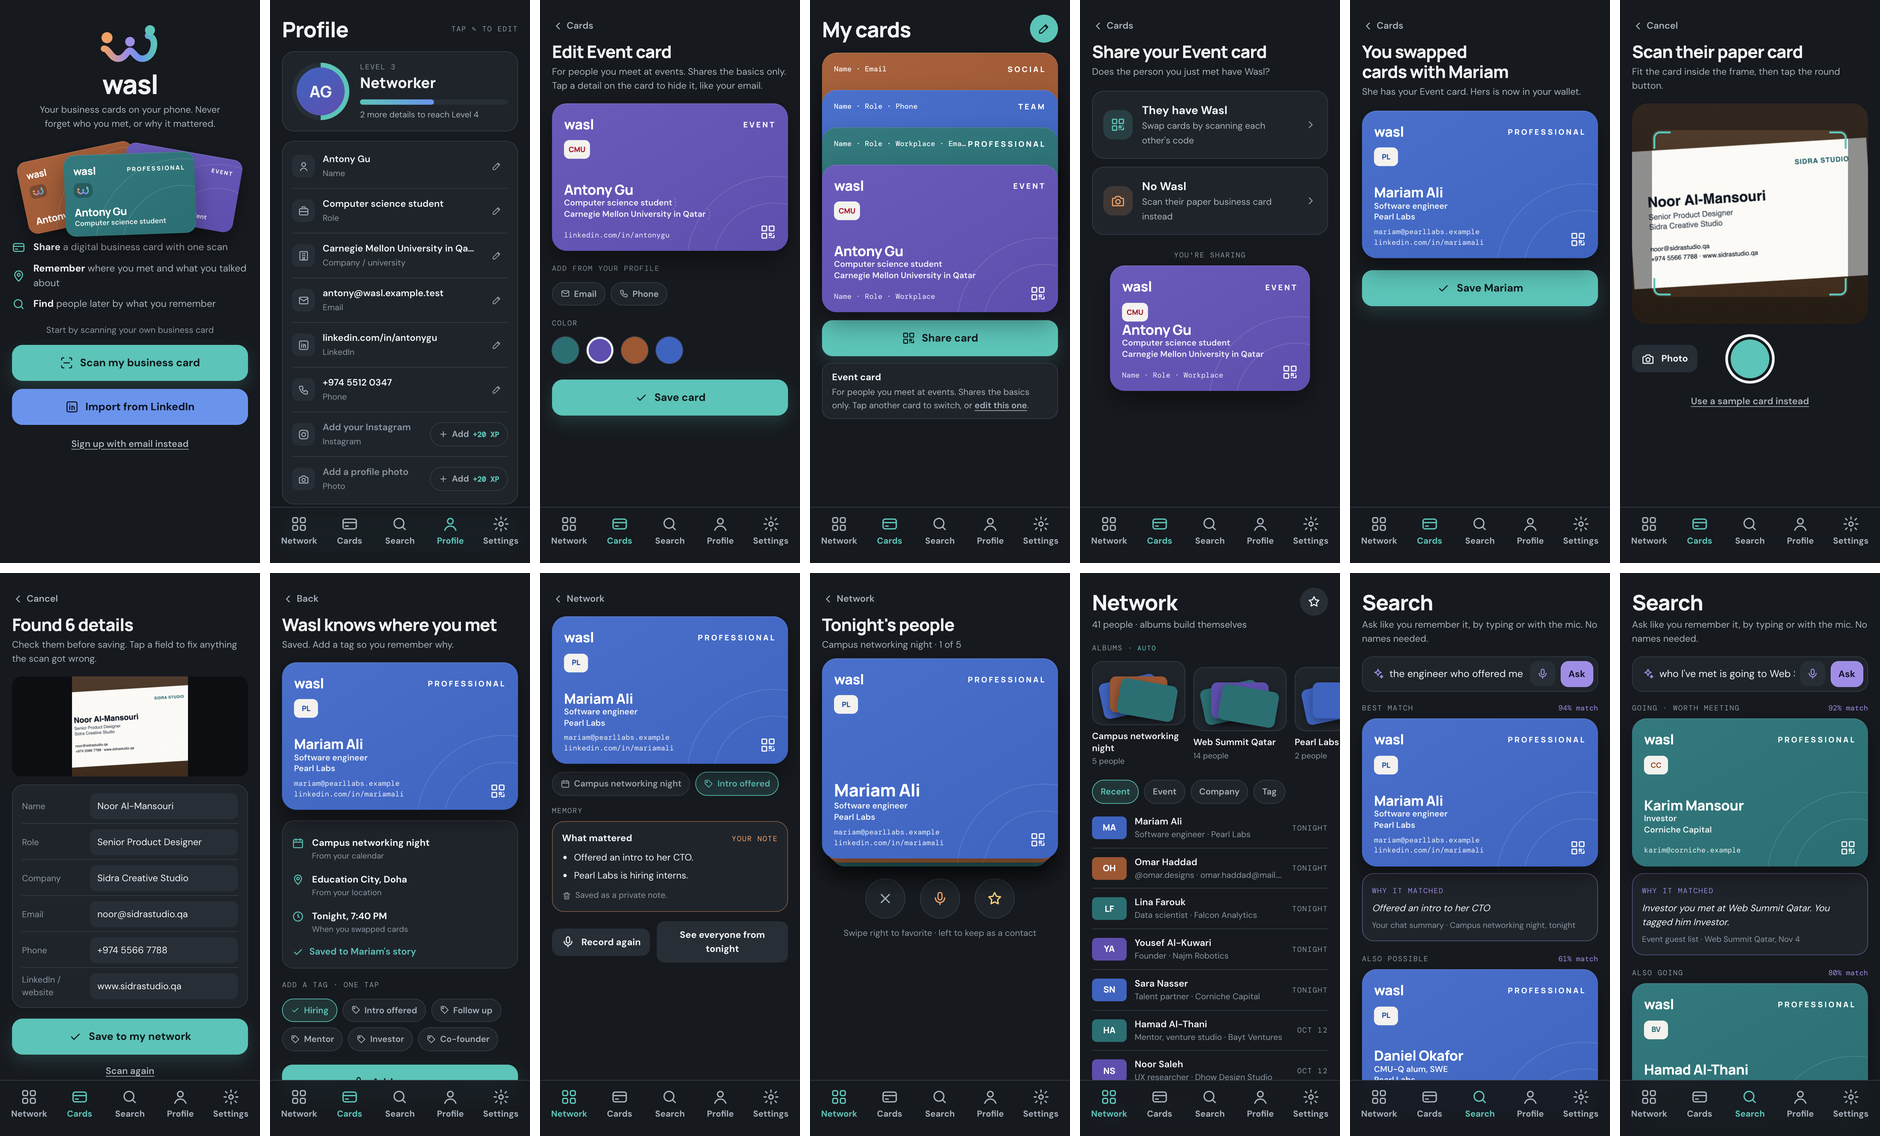
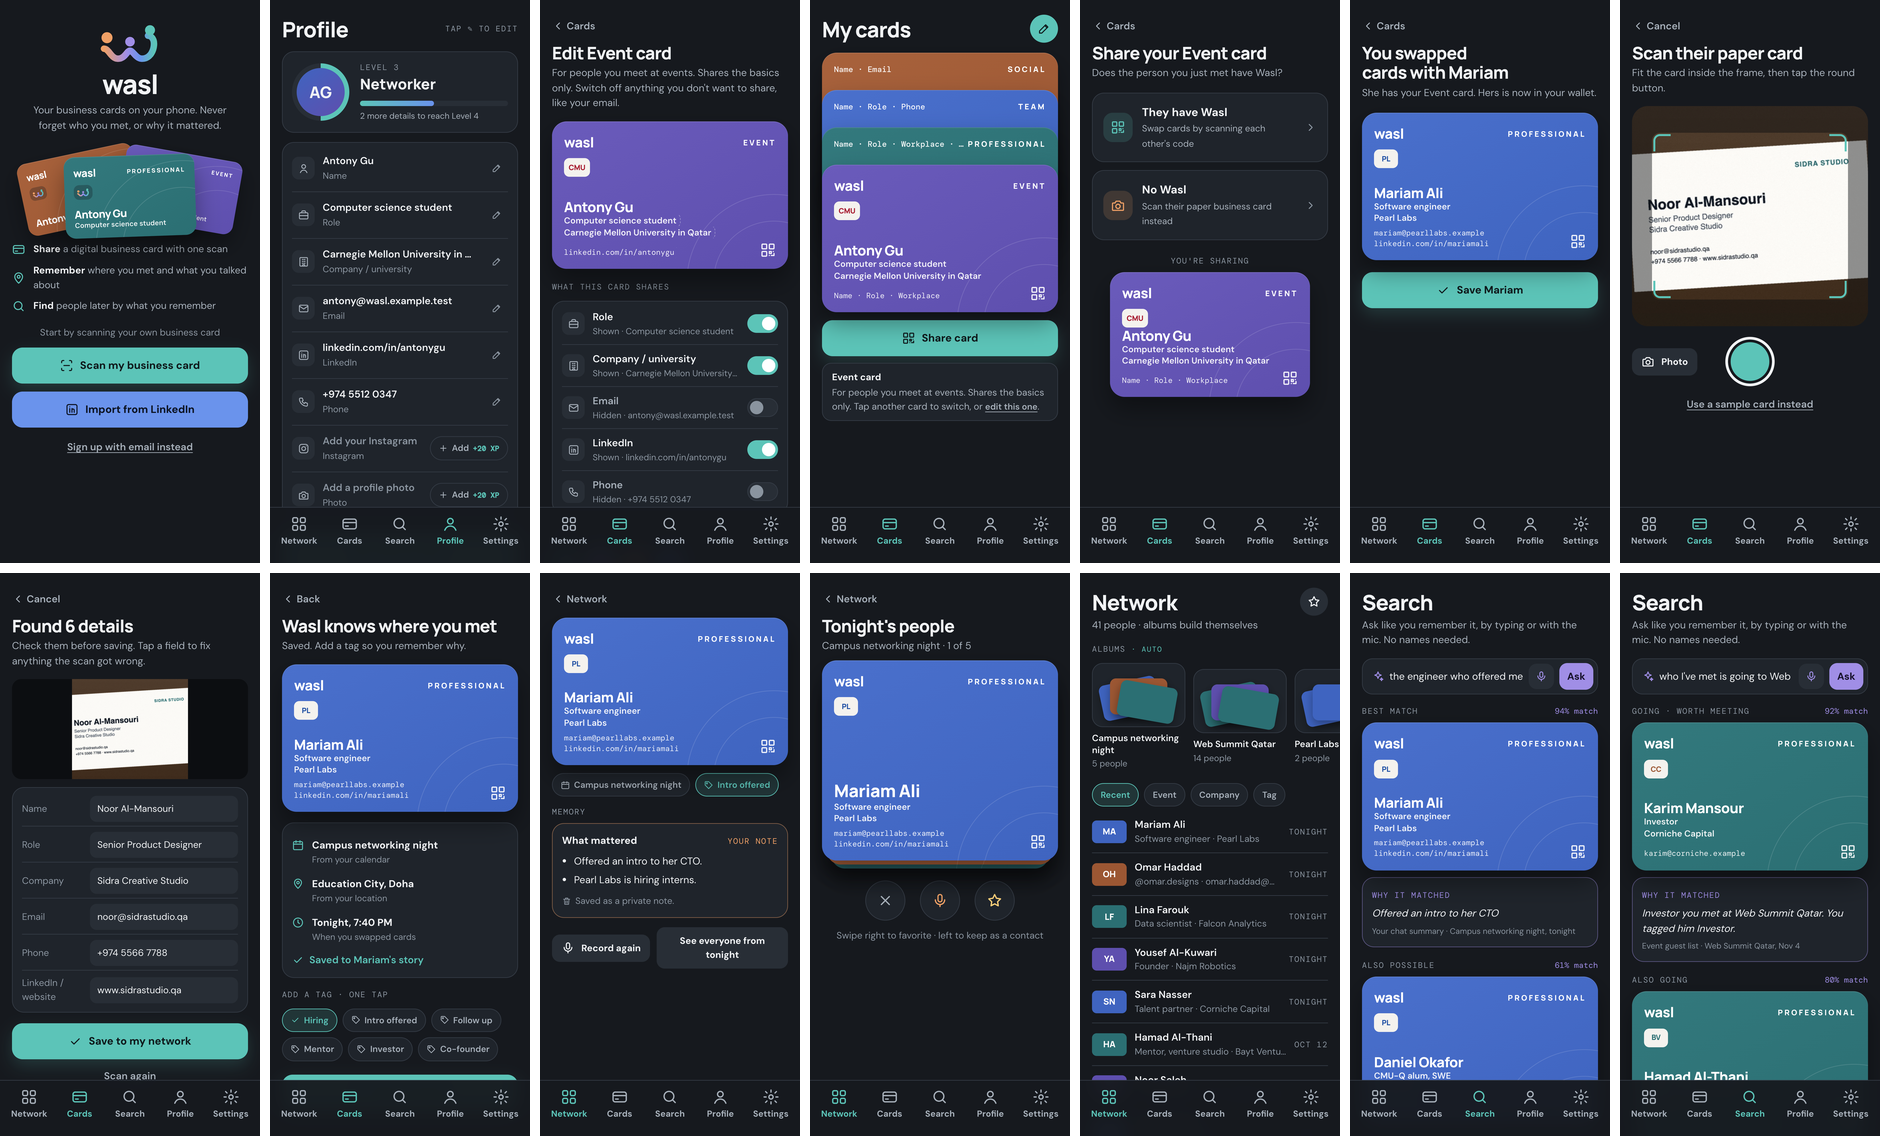
Labeled show/hide switches when editing a card, larger text, scan button above the swap, clearer swap labels

diff --git a/public/mockup/index.html b/public/mockup/index.html
@@ -43,7 +43,7 @@ body {
   background: var(--page);
   color: var(--text);
   font-family: var(--body);
-  font-size: 14px;
+  font-size: 15px;
   line-height: 1.5;
   -webkit-font-smoothing: antialiased;
 }
@@ -148,7 +148,7 @@ h1, h2, h3 { font-family: var(--display); text-wrap: balance; }
   border-radius: 10px;
   padding: 7px 12px;
   font-weight: 600;
-  font-size: 13px;
+  font-size: 14px;
   color: var(--text-2);
 }
 .ghost:hover { color: var(--text); border-color: var(--muted); }
@@ -251,7 +251,7 @@ h1, h2, h3 { font-family: var(--display); text-wrap: balance; }
 .back svg { width: 18px; height: 18px; }
 .title { font-size: 32px; font-weight: 800; letter-spacing: -0.8px; line-height: 1.15; margin: 6px 0 4px; }
 .sub { color: var(--text-2); }
-.label { font-family: var(--mono); font-size: 11px; letter-spacing: 0.1em; text-transform: uppercase; color: var(--muted); }
+.label { font-family: var(--mono); font-size: 12px; letter-spacing: 0.1em; text-transform: uppercase; color: var(--muted); }
 .stack { display: flex; flex-direction: column; gap: 12px; }
 .row { display: flex; gap: 8px; align-items: center; }
 .btn {
@@ -272,7 +272,7 @@ h1, h2, h3 { font-family: var(--display); text-wrap: balance; }
 .btn.violet { background: var(--violet); color: #17122b; box-shadow: none; }
 .btn.small { width: auto; padding: 10px 14px; font-size: 14px; border-radius: 12px; }
 .link { border: 0; background: transparent; color: var(--text-2); font-weight: 600; text-decoration: underline; text-underline-offset: 3px; padding: 6px; }
-.hint { text-align: center; color: var(--muted); font-size: 13px; }
+.hint { text-align: center; color: var(--muted); font-size: 14px; }
 .panel {
   background: var(--surface);
   border: 1px solid var(--line);
@@ -335,10 +335,10 @@ h1, h2, h3 { font-family: var(--display); text-wrap: balance; }
 /* company logo, read from the business card: shown when the card shares a company */
 .card .c-tile.logo { align-self: flex-start; background: #f4f2ee; font-family: var(--display); font-weight: 800; font-size: 11px; letter-spacing: -0.2px; width: auto; min-width: 36px; padding: 0 7px; }
 .card .c-name { font-family: var(--display); font-weight: 800; font-size: 21px; letter-spacing: -0.4px; margin-top: auto; line-height: 1.15; overflow: hidden; text-overflow: ellipsis; white-space: nowrap; }
-.card .c-line { font-size: 12.5px; font-weight: 600; opacity: 0.92; line-height: 1.35; overflow: hidden; text-overflow: ellipsis; white-space: nowrap; }
+.card .c-line { font-size: 13px; font-weight: 600; opacity: 0.92; line-height: 1.35; overflow: hidden; text-overflow: ellipsis; white-space: nowrap; }
 .card .c-foot { display: flex; justify-content: space-between; align-items: flex-end; margin-top: 6px; gap: 8px; }
 .card .c-contacts { display: flex; flex-direction: column; min-width: 0; }
-.card .c-mono { font-family: var(--mono); font-size: 11px; line-height: 1.4; opacity: 0.9; overflow: hidden; text-overflow: ellipsis; white-space: nowrap; }
+.card .c-mono { font-family: var(--mono); font-size: 11.5px; line-height: 1.4; opacity: 0.9; overflow: hidden; text-overflow: ellipsis; white-space: nowrap; }
 /* small cards fanned out on the welcome screen: fixed size so long text can never stretch them */
 .card.mini { width: 196px; height: 122px; aspect-ratio: auto; padding: 12px 14px; border-radius: 16px; }
 .card.mini .c-word { font-size: 16px; }
@@ -359,10 +359,10 @@ h1, h2, h3 { font-family: var(--display); text-wrap: balance; }
 .wallet .card { position: absolute; left: 0; right: 0; width: 100%; transition: transform 200ms; }
 .wallet .card:last-child { position: relative; top: 0 !important; }
 .wallet .card.behind .c-tile { visibility: hidden; }
-.card .c-peek { font-family: var(--mono); font-size: 11px; font-weight: 500; opacity: 0.92; min-width: 0; overflow: hidden; text-overflow: ellipsis; white-space: nowrap; }
+.card .c-peek { font-family: var(--mono); font-size: 12px; font-weight: 500; opacity: 0.92; min-width: 0; overflow: hidden; text-overflow: ellipsis; white-space: nowrap; }
 .card-about { display: flex; flex-direction: column; gap: 2px; padding: 10px 14px; border-radius: 14px; background: var(--surface); border: 1px solid var(--line); }
 .card-about b { font-size: 14px; }
-.card-about span { color: var(--text-2); font-size: 13px; }
+.card-about span { color: var(--text-2); font-size: 14px; }
 .wallet .card.behind:hover { transform: translateY(-4px); }
 .wallet .card.front { animation: lift 320ms ease-out; }
 @keyframes lift { from { transform: translateY(-26px); } to { transform: none; } }
@@ -428,7 +428,7 @@ h1, h2, h3 { font-family: var(--display); text-wrap: balance; }
 .fields { display: grid; gap: 2px; padding-block: 6px; }
 .fld { display: grid; grid-template-columns: 92px 1fr; align-items: center; gap: 10px; padding: 6px 0; border-bottom: 1px solid var(--line); }
 .fld:last-child { border-bottom: 0; }
-.fld span { color: var(--muted); font-size: 13px; }
+.fld span { color: var(--muted); font-size: 14px; }
 .fld input { min-width: 0; background: var(--raised); border: 1px solid transparent; border-radius: 10px; color: var(--text); font: inherit; font-size: 14px; padding: 8px 10px; }
 .fld input:focus { outline: none; border-color: var(--teal); }
 .fld input::placeholder { color: var(--muted); }
@@ -460,7 +460,7 @@ h1, h2, h3 { font-family: var(--display); text-wrap: balance; }
 .detail .ic svg { width: 17px; height: 17px; }
 .detail .dv { min-width: 0; flex: 1; }
 .detail .dv b { display: block; font-weight: 600; overflow: hidden; text-overflow: ellipsis; white-space: nowrap; }
-.detail .dv span { color: var(--muted); font-size: 12.5px; }
+.detail .dv span { color: var(--muted); font-size: 13.5px; }
 .detail.missing .dv b { color: var(--muted); }
 .edit-btn { border: 0; background: transparent; color: var(--muted); width: 34px; height: 34px; border-radius: 10px; display: grid; place-items: center; flex: none; }
 .edit-btn:hover { color: var(--text); background: var(--raised); }
@@ -469,6 +469,19 @@ h1, h2, h3 { font-family: var(--display); text-wrap: balance; }
 .detail.editing .dv span { color: var(--muted); font-size: 12.5px; }
 .detail.editing input { min-width: 0; width: 100%; background: var(--raised); border: 1px solid var(--teal); border-radius: 10px; color: var(--text); font: inherit; padding: 8px 10px; outline: none; }
 
+.toggles { padding-block: 2px; }
+.tg { display: flex; align-items: center; gap: 12px; width: 100%; border: 0; border-bottom: 1px solid var(--line); background: transparent; color: var(--text); text-align: left; padding: 10px 0; }
+.tg:last-child { border-bottom: 0; }
+.tg .ic { width: 34px; height: 34px; border-radius: 10px; background: var(--raised); display: grid; place-items: center; flex: none; color: var(--text-2); }
+.tg .ic svg { width: 17px; height: 17px; }
+.tg .dv { min-width: 0; flex: 1; }
+.tg .dv b { display: block; font-size: 15px; font-weight: 600; }
+.tg .dv span { display: block; color: var(--muted); font-size: 13px; overflow: hidden; text-overflow: ellipsis; white-space: nowrap; }
+.tg[aria-pressed="false"] .dv b { color: var(--text-2); }
+.sw { width: 46px; height: 28px; border-radius: 14px; background: var(--raised); box-shadow: inset 0 0 0 1px var(--line); position: relative; flex: none; transition: background 150ms; }
+.sw::after { content: ""; position: absolute; top: 4px; left: 4px; width: 20px; height: 20px; border-radius: 50%; background: var(--muted); transition: transform 150ms, background 150ms; }
+.tg[aria-pressed="true"] .sw { background: var(--teal); box-shadow: none; }
+.tg[aria-pressed="true"] .sw::after { transform: translateX(18px); background: #fff; }
 .swatches { display: flex; gap: 12px; }
 .swatch { width: 40px; height: 40px; border-radius: 50%; border: 3px solid transparent; box-shadow: 0 0 0 1px var(--line); }
 .swatch[aria-pressed="true"] { border-color: var(--text); }
@@ -478,11 +491,11 @@ h1, h2, h3 { font-family: var(--display); text-wrap: balance; }
 .swatch.team { background: var(--card-team); }
 
 /* the two cards sit in the flow, so the labels can never land on a card at any screen size */
-.exchange { position: relative; display: flex; flex-direction: column; gap: 14px; margin-top: 10px; }
+.exchange { position: relative; display: flex; flex-direction: column; gap: 34px; margin-top: 10px; }
 .exchange .slot { position: relative; width: 100%; max-width: 300px; margin-inline: auto; transition: transform 700ms cubic-bezier(.6, -0.2, .3, 1.3), opacity 300ms; }
-.exchange .slot .who { font-family: var(--mono); font-size: 11px; letter-spacing: 0.08em; color: var(--muted); text-transform: uppercase; margin-bottom: 8px; }
-.exchange.swapping .theirs { transform: translateY(calc(100% + 14px)) rotate(-3deg); }
-.exchange.swapping .yours { transform: translateY(calc(-100% - 14px)) rotate(3deg); }
+.exchange .slot .who { font-family: var(--mono); font-size: 12px; letter-spacing: 0.08em; color: var(--muted); text-transform: uppercase; margin-bottom: 8px; }
+.exchange.swapping .theirs { transform: translateY(calc(100% + 34px)) rotate(-3deg); }
+.exchange.swapping .yours { transform: translateY(calc(-100% - 34px)) rotate(3deg); }
 .choice { display: flex; align-items: center; gap: 14px; width: 100%; text-align: left; border: 1px solid var(--line); background: var(--surface); color: var(--text); border-radius: 18px; padding: 16px; }
 .choice .ic { width: 44px; height: 44px; border-radius: 14px; display: grid; place-items: center; flex: none; background: rgba(92, 196, 184, 0.16); color: var(--teal); }
 .choice .ic svg { width: 22px; height: 22px; }
@@ -492,15 +505,15 @@ h1, h2, h3 { font-family: var(--display); text-wrap: balance; }
 .choice > svg { width: 18px; height: 18px; color: var(--muted); margin-left: auto; flex: none; }
 .sharing { margin-top: 22px; }
 .sharing .card { max-width: 300px; margin: 8px auto 0; }
-.exchange .pulse { position: absolute; left: 50%; top: 50%; width: 64px; height: 64px; margin: -32px; border-radius: 50%; display: grid; place-items: center; background: var(--raised); color: var(--teal); z-index: 2; }
-.exchange .pulse svg { width: 28px; height: 28px; }
+.exchange .pulse { position: absolute; left: 50%; top: 50%; width: 52px; height: 52px; margin: -26px; border-radius: 50%; display: grid; place-items: center; background: var(--raised); color: var(--teal); z-index: 2; }
+.exchange .pulse svg { width: 24px; height: 24px; }
 .exchange.swapping .pulse { animation: buzz 120ms linear 6; }
 @keyframes buzz { 0%, 100% { transform: translateX(0); } 25% { transform: translateX(-3px); } 75% { transform: translateX(3px); } }
 .qr { width: 100%; height: 100%; }
 
 .ctx .item { display: flex; gap: 12px; align-items: flex-start; padding: 8px 0; }
 .ctx .item svg { width: 18px; height: 18px; color: var(--teal); flex: none; margin-top: 2px; }
-.ctx .src { display: block; color: var(--muted); font-size: 12px; }
+.ctx .src { display: block; color: var(--muted); font-size: 13px; }
 .confirmed { display: flex; align-items: center; gap: 8px; color: var(--teal); font-weight: 600; }
 .confirmed svg { width: 18px; height: 18px; }
 
@@ -523,13 +536,13 @@ h1, h2, h3 { font-family: var(--display); text-wrap: balance; }
 .summary { border-color: rgba(239, 160, 102, 0.45); }
 .summary ul { margin: 8px 0 0; padding-left: 18px; display: flex; flex-direction: column; gap: 6px; }
 .mic-wrap .live { width: 100%; max-height: 120px; overflow-y: auto; margin: 2px 0 0; padding: 10px 12px; border-radius: 12px; background: var(--raised); color: var(--text-2); font-size: 13.5px; line-height: 1.45; text-align: left; }
-.transcript { margin-top: 10px; font-size: 13px; color: var(--text-2); }
+.transcript { margin-top: 10px; font-size: 14px; color: var(--text-2); }
 .transcript summary { cursor: pointer; color: var(--muted); font-weight: 600; }
 .transcript p { margin: 6px 0 0; line-height: 1.5; }
 .search .voice { width: 38px; height: 38px; border-radius: 12px; border: 0; background: var(--raised); color: var(--violet); display: grid; place-items: center; flex: none; padding: 0; }
 .search .voice svg { width: 18px; height: 18px; }
 .search .voice.on { background: var(--danger); color: #2a0f0f; animation: ring 1s ease-out infinite; }
-.summary .kept { margin-top: 10px; color: var(--muted); font-size: 12.5px; display: flex; gap: 6px; align-items: center; }
+.summary .kept { margin-top: 10px; color: var(--muted); font-size: 13.5px; display: flex; gap: 6px; align-items: center; }
 .summary .kept svg { width: 14px; height: 14px; }
 .shimmer { height: 12px; border-radius: 6px; background: linear-gradient(90deg, var(--raised), #3a424d, var(--raised)); background-size: 200% 100%; animation: sh 1s linear infinite; }
 @keyframes sh { to { background-position: -200% 0; } }
@@ -557,16 +570,16 @@ h1, h2, h3 { font-family: var(--display); text-wrap: balance; }
 .album .cover i:nth-child(1) { transform: rotate(-12deg) translateX(-14px); }
 .album .cover i:nth-child(3) { transform: rotate(10deg) translateX(14px) translateY(6px); }
 .album b { display: block; margin-top: 8px; font-weight: 600; font-size: 13.5px; line-height: 1.3; }
-.album span { color: var(--muted); font-size: 12px; }
+.album span { color: var(--muted); font-size: 13px; }
 .album.new .cover { display: grid; place-items: center; border-style: dashed; color: var(--muted); }
 .album.new .cover svg { width: 26px; height: 26px; }
-.auto { font-family: var(--mono); font-size: 10px; color: var(--teal); }
+.auto { font-family: var(--mono); font-size: 11px; color: var(--teal); }
 .people { list-style: none; margin: 0; padding: 0; }
 .person { display: flex; gap: 12px; align-items: center; padding: 10px 0; border-bottom: 1px solid var(--line); width: 100%; background: transparent; border-left: 0; border-right: 0; border-top: 0; text-align: left; }
 .person .mini { width: 52px; height: 34px; border-radius: 7px; flex: none; display: grid; place-items: center; font-family: var(--display); font-weight: 800; font-size: 13px; color: #fff; }
 .person .pv { min-width: 0; flex: 1; }
 .person .pv b { display: block; font-weight: 600; }
-.person .pv span { color: var(--muted); font-size: 12.5px; display: block; overflow: hidden; text-overflow: ellipsis; white-space: nowrap; }
+.person .pv span { color: var(--muted); font-size: 13.5px; display: block; overflow: hidden; text-overflow: ellipsis; white-space: nowrap; }
 .person .star { color: #ffd27a; width: 16px; height: 16px; }
 .group-h { margin-top: 16px; }
 .flip { display: flex; gap: 12px; overflow-x: auto; scroll-snap-type: x mandatory; margin: 0 calc(-1 * var(--gutter)); padding: 6px var(--gutter) 14px; scroll-padding-inline: var(--gutter); scrollbar-width: none; }
@@ -584,11 +597,11 @@ h1, h2, h3 { font-family: var(--display); text-wrap: balance; }
 .why { border-color: rgba(160, 142, 230, 0.45); }
 .why q { display: block; font-style: italic; color: var(--text); margin-top: 6px; }
 .why q::before, .why q::after { content: ""; }
-.match { font-family: var(--mono); font-size: 11px; color: var(--violet); }
+.match { font-family: var(--mono); font-size: 12px; color: var(--violet); }
 
 .setting { display: flex; justify-content: space-between; gap: 12px; align-items: center; padding: 12px 0; border-bottom: 1px solid var(--line); }
 .setting:last-child { border-bottom: 0; }
-.setting span { color: var(--muted); font-size: 12.5px; display: block; }
+.setting span { color: var(--muted); font-size: 13.5px; display: block; }
 .switch { width: 46px; height: 28px; border-radius: 20px; background: var(--teal); position: relative; flex: none; border: 0; }
 .switch::after { content: ""; position: absolute; top: 3px; right: 3px; width: 22px; height: 22px; border-radius: 50%; background: #fff; }
 .switch[aria-checked="false"] { background: var(--raised); }
@@ -609,7 +622,7 @@ h1, h2, h3 { font-family: var(--display); text-wrap: balance; }
   border-radius: 999px;
   padding: 8px 14px;
   font-weight: 600;
-  font-size: 13px;
+  font-size: 14px;
   white-space: nowrap;
   display: flex; gap: 8px; align-items: center;
   animation: toast 2.2s ease forwards;
@@ -1007,14 +1020,18 @@ h1, h2, h3 { font-family: var(--display); text-wrap: balance; }
     build() {
       const d = S.draft;
       const allContact = ["role", "org", "email", "linkedin", "phone", "instagram"];
-      const hidden = allContact.filter((f) => !d.fields.includes(f) && (f !== "instagram" || S.extra.instagram));
+      // every detail gets a labeled switch, so people can see exactly what they're hiding (testers couldn't tell)
+      const rows = allContact.filter((f) => f !== "instagram" || S.extra.instagram);
       return `${back("wallet", "Cards")}
         <h2 class="title" style="font-size:26px">Edit ${kindName(S.editId)} card</h2>
-        <p class="sub">${KIND_FOR[S.editId]} Tap a detail on the card to hide it, like your email.</p>
+        <p class="sub">${KIND_FOR[S.editId]} Switch off anything you don't want to share, like your email.</p>
         <div style="margin:16px 0 18px">${card(S.editId, { data: d, edit: true })}</div>
         <div class="stack">
-          <div class="label">Add from your profile</div>
-          <div class="chips">${hidden.length ? hidden.map((f) => `<button class="chip" data-act="add-field" data-f="${f}">${ic(FIELD_META[f].icon)}${FIELD_META[f].short || FIELD_META[f].label}</button>`).join("") : '<span class="sub" style="font-size:13px">Everything is on this card.</span>'}</div>
+          <div class="label">What this card shares</div>
+          <div class="panel toggles">${rows.map((f) => {
+            const on = d.fields.includes(f);
+            return `<button class="tg" data-act="${on ? "hide-field" : "add-field"}" data-f="${f}" aria-pressed="${on}" aria-label="${on ? "Hide" : "Show"} ${FIELD_META[f].label}"><span class="ic">${ic(FIELD_META[f].icon)}</span><span class="dv"><b>${FIELD_META[f].label}</b><span>${on ? "Shown" : "Hidden"} · ${esc(ME[f])}</span></span><span class="sw" aria-hidden="true"></span></button>`;
+          }).join("")}</div>
           <div class="label" style="margin-top:6px">Color</div>
           <div class="swatches">${["pro", "event", "social", "team"].map((c) => `<button class="swatch ${c}" data-act="color" data-c="${c}" aria-pressed="${d.color === c}" aria-label="${COLOR_NAME[c]}"></button>`).join("")}</div>
           <button class="btn" style="margin-top:12px" data-act="save-card">${ic("check")}Save card</button>
@@ -1138,14 +1155,14 @@ h1, h2, h3 { font-family: var(--display); text-wrap: balance; }
       return `${back("exchange-reset", "Back")}
         <h2 class="title" style="font-size:26px">Swap cards with Mariam</h2>
         <p class="sub">Scan Mariam's code, or let her scan yours.</p>
+        <div class="row" style="margin-top:14px">
+          <div style="width:72px;height:72px;flex:none">${qrSvg(7)}</div>
+          <button class="btn" data-act="do-swap" ${S.exPhase === "swapping" ? "disabled" : ""}>${ic("scan")}Scan Mariam's code</button>
+        </div>
         <div class="exchange ${S.exPhase === "swapping" ? "swapping" : ""}" id="exchange">
           <div class="slot theirs"><div class="who">Mariam's phone</div>${personCard(MARIAM)}</div>
           <div class="pulse">${ic("swap")}</div>
-          <div class="slot yours"><div class="who">Your ${kind} card</div>${card(S.front)}</div>
-        </div>
-        <div class="row" style="margin-top:12px">
-          <div style="width:72px;height:72px;flex:none">${qrSvg(7)}</div>
-          <button class="btn" data-act="do-swap" ${S.exPhase === "swapping" ? "disabled" : ""}>${ic("scan")}Scan Mariam's code</button>
+          <div class="slot yours"><div class="who">Your card</div>${card(S.front)}</div>
         </div>`;
     },
 
